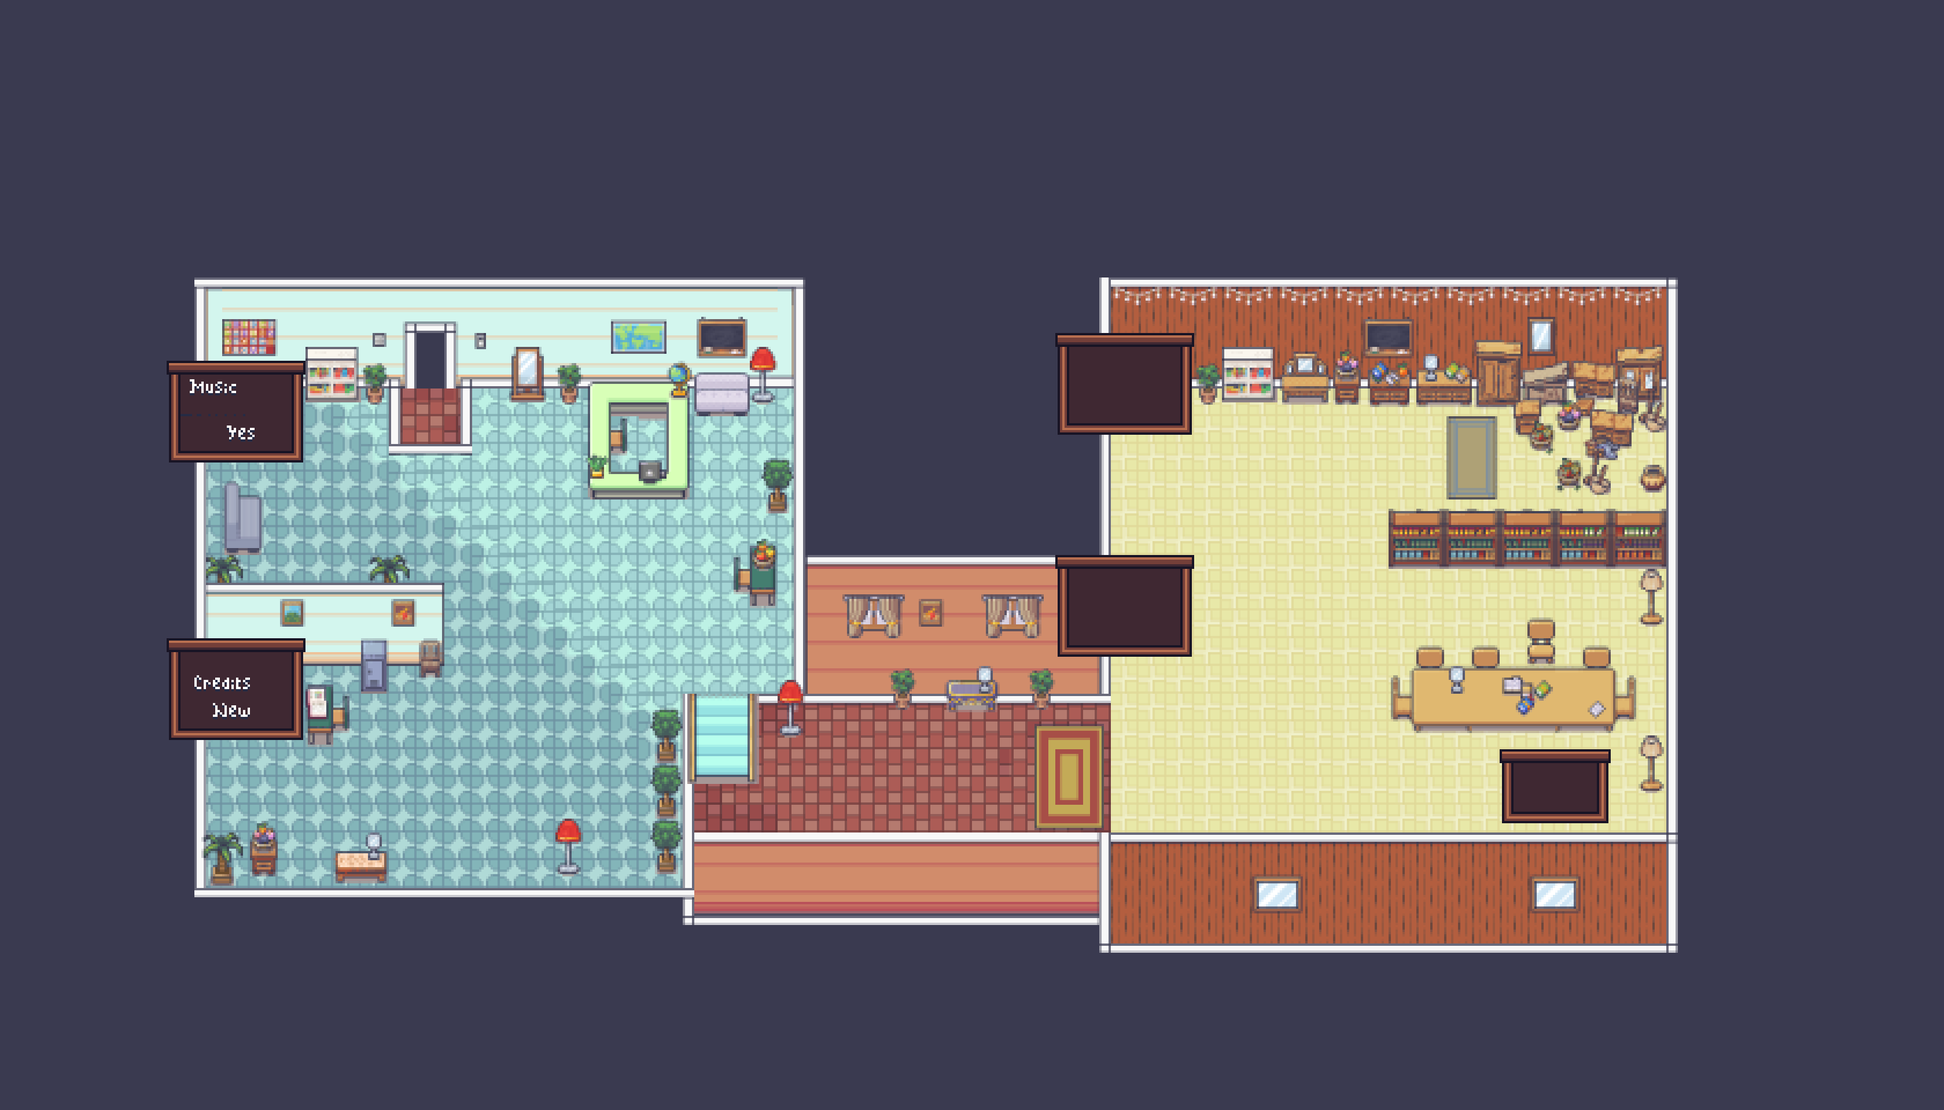
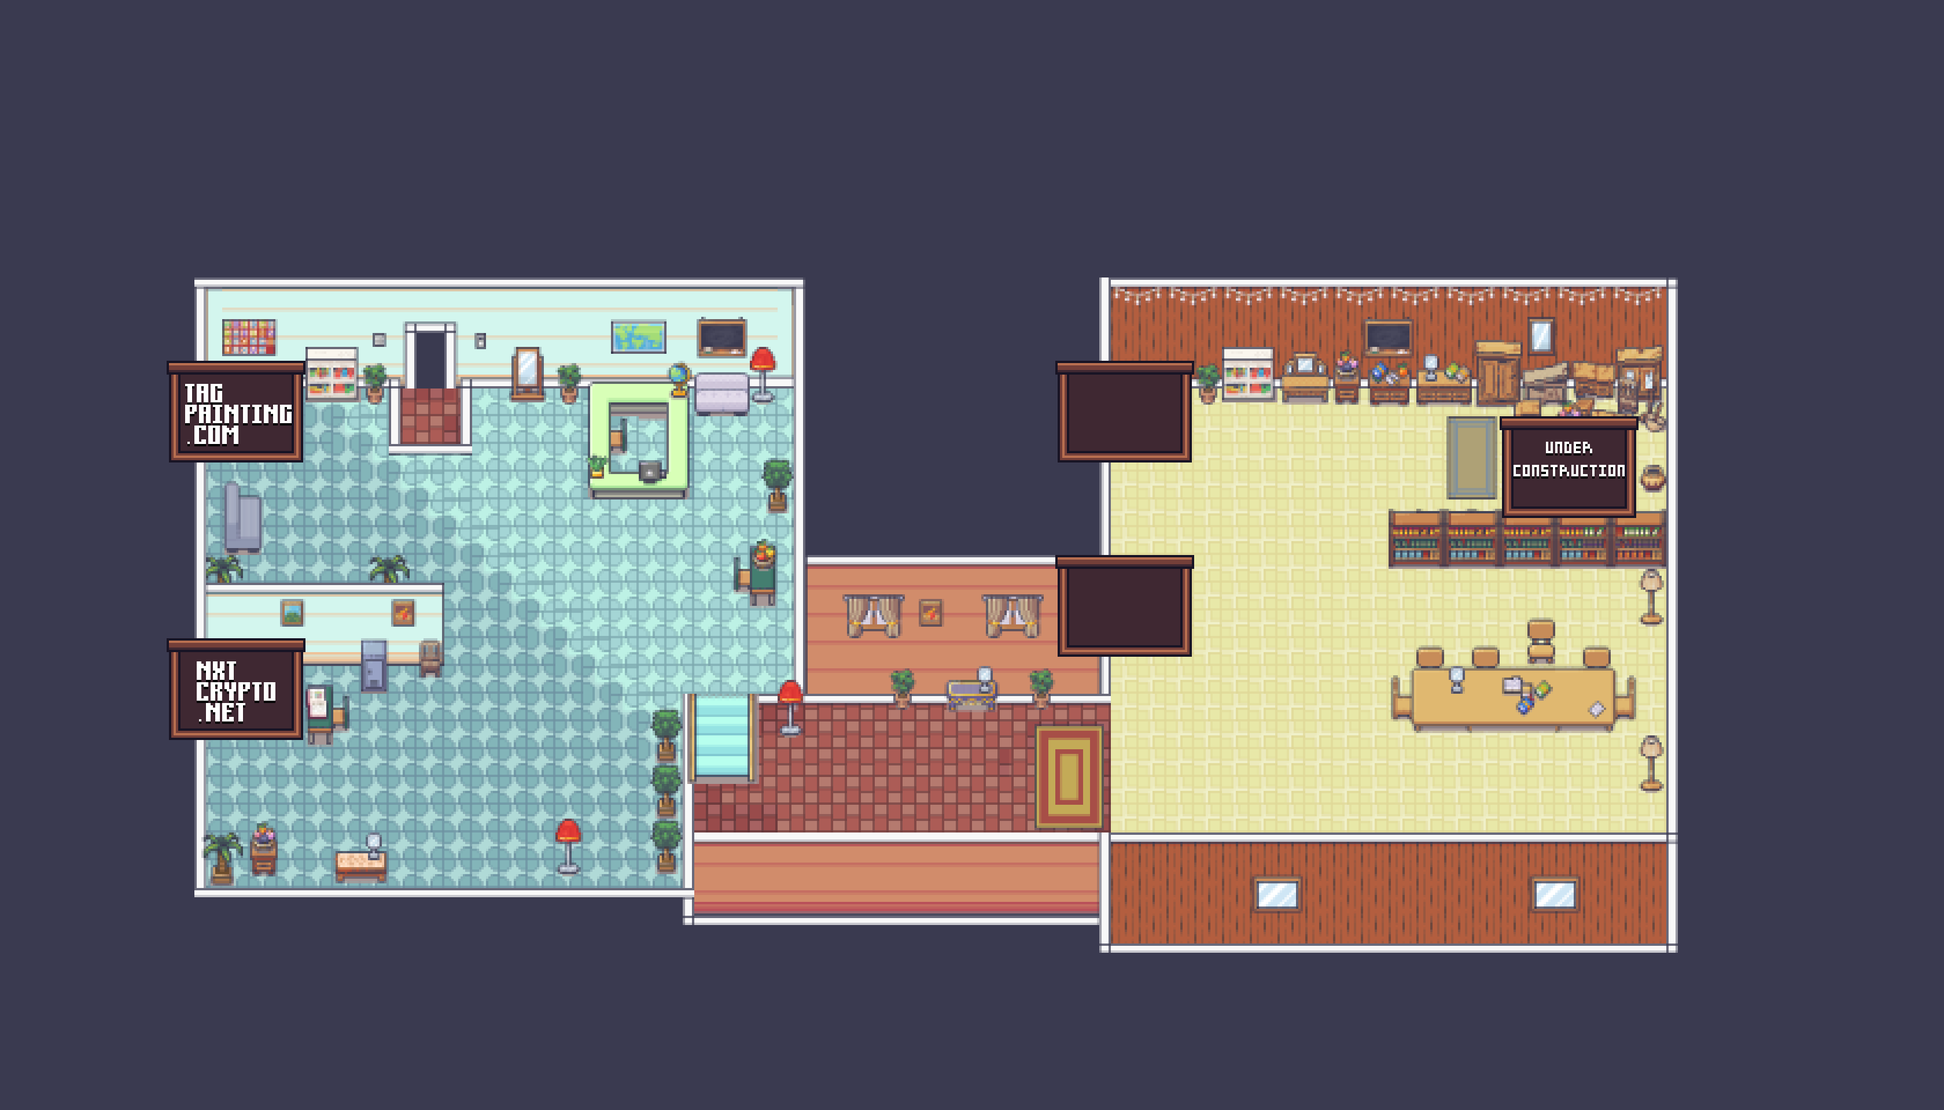
portfolio websites

diff --git a/js/data/enterWeb.js b/js/data/enterWeb.js
@@ -1,0 +1,113 @@
+// 393
+
+enterWebData = [
+  0, 0, 0, 0, 0, 0, 0, 0, 0, 0, 0, 0, 0, 0, 0, 0, 0, 0, 0, 0, 0, 0, 0, 0, 0, 0,
+  0, 0, 0, 0, 0, 0, 0, 0, 0, 0, 0, 0, 0, 0, 0, 0, 0, 0, 0, 0, 0, 0, 0, 0, 0, 0,
+  0, 0, 0, 0, 0, 0, 0, 0, 0, 0, 0, 0, 0, 0, 0, 0, 0, 0, 0, 0, 0, 0, 0, 0, 0, 0,
+  0, 0, 0, 0, 0, 0, 0, 0, 0, 0, 0, 0, 0, 0, 0, 0, 0, 0, 0, 0, 0, 0, 0, 0, 0, 0,
+  0, 0, 0, 0, 0, 0, 0, 0, 0, 0, 0, 0, 0, 0, 0, 0, 0, 0, 0, 0, 0, 0, 0, 0, 0, 0,
+  0, 0, 0, 0, 0, 0, 0, 0, 0, 0, 0, 0, 0, 0, 0, 0, 0, 0, 0, 0, 0, 0, 0, 0, 0, 0,
+  0, 0, 0, 0, 0, 0, 0, 0, 0, 0, 0, 0, 0, 0, 0, 0, 0, 0, 0, 0, 0, 0, 0, 0, 0, 0,
+  0, 0, 0, 0, 0, 0, 0, 0, 0, 0, 0, 0, 0, 0, 0, 0, 0, 0, 0, 0, 0, 0, 0, 0, 0, 0,
+  0, 0, 0, 0, 0, 0, 0, 0, 0, 0, 0, 0, 0, 0, 0, 0, 0, 0, 0, 0, 0, 0, 0, 0, 0, 0,
+  0, 0, 0, 0, 0, 0, 0, 0, 0, 0, 0, 0, 0, 0, 0, 0, 0, 0, 0, 0, 0, 0, 0, 0, 0, 0,
+  0, 0, 0, 0, 0, 0, 0, 0, 0, 0, 0, 0, 0, 0, 0, 0, 0, 0, 0, 0, 0, 0, 0, 0, 0, 0,
+  0, 0, 0, 0, 0, 0, 0, 0, 0, 0, 0, 0, 0, 0, 0, 0, 0, 0, 0, 0, 0, 0, 0, 0, 0, 0,
+  0, 0, 0, 0, 0, 0, 0, 0, 0, 0, 0, 0, 0, 0, 0, 0, 0, 0, 0, 0, 0, 0, 0, 0, 0, 0,
+  0, 0, 0, 0, 0, 0, 0, 0, 0, 0, 0, 0, 0, 0, 0, 0, 0, 0, 0, 0, 0, 0, 0, 0, 0, 0,
+  0, 0, 0, 0, 0, 0, 0, 0, 0, 0, 0, 0, 0, 0, 0, 0, 0, 0, 0, 0, 0, 0, 0, 0, 0, 0,
+  0, 0, 0, 0, 0, 0, 0, 0, 0, 0, 0, 0, 0, 0, 0, 0, 0, 0, 0, 0, 0, 0, 0, 0, 0, 0,
+  0, 0, 0, 0, 0, 0, 0, 0, 0, 0, 0, 0, 0, 0, 0, 0, 0, 0, 0, 0, 0, 0, 0, 0, 0, 0,
+  0, 0, 0, 0, 0, 0, 0, 0, 0, 0, 0, 0, 0, 0, 0, 0, 0, 0, 0, 0, 0, 0, 0, 0, 0, 0,
+  0, 0, 0, 0, 0, 0, 0, 0, 0, 0, 0, 0, 0, 0, 0, 0, 0, 0, 0, 0, 0, 0, 0, 0, 0, 0,
+  0, 0, 0, 0, 0, 0, 0, 0, 0, 0, 0, 0, 0, 0, 0, 0, 0, 0, 0, 0, 0, 0, 0, 0, 0, 0,
+  0, 0, 0, 0, 0, 0, 0, 0, 0, 0, 0, 0, 0, 0, 0, 0, 0, 0, 0, 0, 0, 0, 0, 0, 0, 0,
+  0, 0, 0, 0, 0, 0, 0, 0, 0, 0, 0, 0, 0, 0, 0, 0, 0, 0, 0, 0, 0, 0, 0, 0, 0, 0,
+  0, 0, 0, 0, 0, 0, 0, 0, 0, 0, 0, 0, 0, 0, 0, 0, 0, 0, 0, 0, 0, 0, 0, 0, 0, 0,
+  0, 0, 0, 0, 0, 0, 0, 0, 0, 0, 0, 0, 0, 0, 0, 0, 0, 0, 0, 0, 0, 0, 0, 0, 0, 0,
+  0, 0, 0, 0, 0, 0, 0, 0, 0, 0, 0, 0, 0, 0, 0, 0, 0, 0, 0, 0, 0, 0, 0, 0, 0, 0,
+  0, 0, 0, 0, 0, 0, 0, 0, 0, 0, 0, 0, 0, 0, 0, 0, 0, 0, 0, 0, 0, 0, 0, 0, 0, 0,
+  0, 0, 0, 0, 0, 0, 0, 0, 0, 0, 0, 0, 0, 0, 0, 0, 0, 0, 0, 0, 0, 0, 0, 0, 0, 0,
+  0, 0, 0, 0, 0, 0, 0, 0, 0, 0, 0, 0, 0, 0, 0, 0, 0, 0, 0, 0, 0, 0, 0, 0, 0, 0,
+  0, 0, 0, 0, 0, 0, 0, 0, 0, 0, 0, 0, 0, 0, 0, 0, 0, 0, 0, 0, 0, 0, 0, 0, 0, 0,
+  0, 0, 0, 0, 0, 0, 0, 0, 0, 0, 0, 0, 0, 0, 0, 0, 0, 0, 0, 0, 0, 0, 0, 0, 0, 0,
+  0, 0, 0, 0, 0, 0, 0, 0, 0, 0, 0, 0, 0, 0, 0, 0, 0, 0, 0, 0, 0, 0, 0, 0, 0, 0,
+  0, 0, 0, 0, 0, 0, 0, 0, 0, 0, 0, 0, 0, 0, 0, 0, 0, 0, 0, 0, 0, 0, 0, 0, 0, 0,
+  0, 0, 0, 0, 0, 0, 0, 0, 0, 0, 0, 0, 0, 0, 0, 0, 0, 0, 0, 0, 0, 0, 0, 0, 0, 0,
+  0, 0, 0, 0, 0, 0, 0, 0, 0, 0, 0, 0, 0, 0, 0, 0, 0, 0, 0, 0, 0, 0, 0, 0, 0, 0,
+  0, 0, 0, 0, 0, 0, 0, 0, 0, 0, 0, 0, 0, 0, 0, 0, 0, 0, 0, 0, 0, 0, 0, 0, 0, 0,
+  0, 0, 0, 0, 0, 0, 0, 0, 0, 0, 0, 0, 0, 0, 0, 0, 0, 0, 0, 0, 0, 0, 0, 0, 0, 0,
+  0, 0, 0, 0, 0, 0, 0, 0, 0, 0, 0, 0, 0, 0, 0, 0, 0, 0, 0, 0, 0, 0, 0, 0, 0, 0,
+  0, 0, 0, 0, 0, 0, 0, 0, 0, 0, 0, 0, 0, 0, 0, 0, 0, 0, 0, 0, 0, 0, 0, 0, 0, 0,
+  0, 0, 0, 0, 0, 0, 0, 0, 0, 0, 0, 0, 0, 0, 0, 0, 0, 0, 0, 0, 0, 0, 0, 0, 0, 0,
+  0, 0, 0, 0, 0, 0, 0, 0, 0, 0, 0, 0, 0, 0, 0, 0, 0, 0, 0, 0, 0, 0, 0, 0, 0, 0,
+  0, 0, 0, 0, 0, 0, 0, 0, 0, 0, 0, 0, 0, 0, 0, 0, 0, 0, 0, 0, 0, 0, 0, 0, 0, 0,
+  0, 0, 0, 0, 0, 0, 0, 0, 0, 0, 0, 0, 0, 0, 0, 0, 0, 0, 0, 0, 0, 0, 0, 0, 393,
+  393, 0, 0, 0, 0, 0, 0, 0, 0, 0, 0, 0, 0, 0, 0, 0, 0, 0, 0, 0, 0, 0, 0, 0, 0,
+  0, 0, 0, 0, 0, 0, 0, 0, 0, 0, 0, 393, 393, 0, 0, 0, 0, 0, 0, 0, 0, 0, 0, 0, 0,
+  0, 0, 0, 0, 0, 0, 0, 0, 0, 0, 0, 0, 0, 0, 0, 0, 0, 0, 0, 393, 393, 0, 0, 0, 0,
+  0, 0, 0, 0, 0, 0, 0, 0, 0, 0, 0, 0, 0, 0, 0, 0, 0, 0, 0, 0, 0, 0, 0, 0, 0, 0,
+  0, 0, 0, 0, 0, 393, 393, 0, 0, 0, 0, 0, 0, 0, 0, 0, 0, 0, 0, 0, 0, 0, 0, 0, 0,
+  0, 0, 0, 0, 0, 0, 0, 0, 0, 0, 0, 0, 0, 0, 0, 0, 0, 0, 0, 0, 0, 0, 0, 0, 0, 0,
+  0, 0, 0, 0, 0, 0, 0, 0, 0, 0, 0, 0, 0, 0, 0, 0, 0, 0, 0, 0, 0, 0, 0, 0, 0, 0,
+  0, 0, 0, 0, 0, 0, 0, 0, 0, 0, 0, 0, 0, 0, 0, 0, 0, 0, 0, 0, 0, 0, 0, 0, 0, 0,
+  0, 0, 0, 0, 0, 0, 0, 0, 0, 0, 0, 0, 0, 0, 0, 0, 0, 0, 0, 0, 0, 0, 0, 0, 0, 0,
+  0, 0, 0, 0, 0, 0, 0, 0, 0, 0, 0, 0, 0, 0, 0, 0, 0, 0, 0, 0, 0, 0, 0, 0, 0, 0,
+  0, 0, 0, 0, 0, 0, 0, 0, 0, 0, 0, 0, 0, 0, 0, 0, 0, 0, 0, 0, 0, 0, 0, 0, 0, 0,
+  0, 0, 0, 0, 0, 0, 0, 0, 0, 0, 0, 0, 0, 0, 0, 0, 0, 0, 0, 0, 0, 0, 0, 0, 0, 0,
+  0, 0, 0, 0, 0, 0, 0, 0, 0, 0, 0, 0, 0, 0, 0, 0, 0, 0, 0, 0, 0, 0, 0, 0, 0, 0,
+  0, 0, 0, 0, 0, 0, 0, 0, 0, 0, 0, 0, 0, 0, 0, 0, 0, 0, 0, 0, 0, 0, 0, 0, 0, 0,
+  0, 0, 0, 0, 0, 0, 0, 0, 0, 0, 0, 0, 0, 0, 0, 0, 0, 0, 0, 0, 0, 0, 0, 0, 0, 0,
+  0, 0, 0, 0, 0, 0, 0, 0, 0, 0, 0, 0, 0, 0, 0, 0, 0, 0, 0, 0, 0, 0, 0, 0, 0, 0,
+  0, 0, 0, 0, 0, 0, 0, 0, 0, 0, 0, 0, 0, 0, 0, 0, 0, 0, 0, 0, 0, 0, 0, 0, 0, 0,
+  0, 0, 0, 0, 0, 0, 0, 0, 0, 0, 0, 0, 0, 0, 0, 0, 0, 0, 0, 0, 0, 0, 0, 0, 0, 0,
+  0, 0, 0, 0, 0, 0, 0, 0, 0, 0, 0, 0, 0, 0, 0, 0, 0, 0, 0, 0, 0, 0, 0, 0, 0, 0,
+  0, 0, 0, 0, 0, 0, 0, 0, 0, 0, 0, 0, 0, 0, 0, 0, 0, 0, 0, 0, 0, 0, 0, 0, 0, 0,
+  0, 0, 0, 0, 0, 0, 0, 0, 0, 0, 0, 0, 0, 0, 0, 0, 0, 0, 0, 0, 0, 0, 0, 0, 0, 0,
+  0, 0, 0, 0, 0, 0, 0, 0, 0, 0, 0, 0, 0, 0, 0, 0, 0, 393, 393, 0, 0, 0, 0, 0, 0,
+  0, 0, 0, 0, 0, 0, 0, 0, 0, 0, 0, 0, 0, 0, 0, 0, 0, 0, 0, 0, 0, 0, 0, 0, 0, 0,
+  0, 0, 0, 0, 0, 0, 0, 0, 0, 0, 0, 0, 0, 0, 0, 0, 0, 0, 0, 0, 0, 0, 0, 0, 0, 0,
+  0, 0, 0, 0, 0, 0, 0, 0, 0, 0, 393, 393, 0, 0, 0, 0, 0, 0, 0, 0, 0, 0, 0, 0, 0,
+  0, 0, 0, 0, 0, 0, 0, 0, 0, 0, 0, 0, 0, 0, 0, 0, 0, 0, 0, 0, 0, 0, 0, 0, 0, 0,
+  0, 0, 0, 0, 0, 0, 0, 0, 0, 0, 0, 0, 0, 0, 0, 0, 0, 0, 0, 0, 0, 0, 0, 0, 0, 0,
+  0, 0, 0, 0, 0, 0, 0, 0, 0, 0, 0, 0, 0, 0, 0, 0, 0, 0, 0, 0, 0, 0, 0, 0, 0, 0,
+  0, 0, 0, 0, 0, 0, 0, 0, 0, 0, 0, 0, 0, 0, 393, 393, 0, 0, 0, 0, 0, 0, 0, 0, 0,
+  0, 0, 0, 0, 0, 0, 0, 0, 0, 0, 0, 0, 0, 0, 0, 0, 0, 0, 0, 0, 0, 0, 0, 0, 0, 0,
+  0, 0, 0, 0, 0, 0, 0, 0, 0, 0, 0, 0, 0, 0, 0, 0, 0, 0, 0, 0, 0, 0, 0, 0, 0, 0,
+  0, 0, 0, 0, 0, 0, 0, 393, 393, 0, 0, 0, 0, 0, 0, 0, 0, 0, 0, 0, 0, 0, 0, 0, 0,
+  0, 0, 0, 0, 0, 0, 0, 0, 0, 0, 0, 0, 0, 0, 0, 0, 0, 0, 0, 0, 0, 0, 0, 0, 0, 0,
+  0, 0, 0, 0, 0, 0, 0, 0, 0, 0, 0, 0, 0, 0, 0, 0, 0, 0, 0, 0, 0, 0, 0, 0, 0, 0,
+  0, 0, 0, 0, 0, 0, 0, 0, 0, 0, 0, 0, 0, 0, 0, 0, 0, 0, 0, 0, 0, 0, 0, 0, 0, 0,
+  0, 0, 0, 0, 0, 0, 0, 0, 0, 0, 0, 0, 0, 0, 0, 0, 0, 0, 0, 0, 0, 0, 0, 0, 0, 0,
+  0, 0, 0, 0, 0, 0, 0, 0, 0, 0, 0, 0, 0, 0, 0, 0, 0, 0, 0, 0, 0, 0, 0, 0, 0, 0,
+  0, 0, 0, 0, 0, 0, 0, 0, 0, 0, 0, 0, 0, 0, 0, 0, 0, 0, 0, 0, 0, 0, 0, 0, 0, 0,
+  0, 0, 0, 0, 0, 0, 0, 0, 0, 0, 0, 0, 0, 0, 0, 0, 0, 0, 0, 0, 0, 0, 0, 0, 0, 0,
+  0, 0, 0, 0, 0, 0, 0, 0, 0, 0, 0, 0, 0, 0, 0, 0, 0, 0, 0, 0, 0, 0, 0, 0, 0, 0,
+  0, 0, 0, 0, 0, 0, 0, 0, 0, 0, 0, 0, 0, 0, 0, 0, 0, 0, 0, 0, 0, 0, 0, 0, 0, 0,
+  0, 0, 0, 0, 0, 0, 0, 0, 0, 0, 0, 0, 0, 0, 0, 0, 0, 0, 0, 0, 0, 0, 0, 0, 0, 0,
+  0, 0, 0, 0, 0, 0, 0, 0, 0, 0, 0, 0, 0, 0, 0, 0, 0, 0, 0, 0, 0, 0, 0, 0, 0, 0,
+  0, 0, 0, 0, 0, 0, 0, 0, 0, 0, 0, 0, 0, 0, 0, 0, 0, 0, 0, 0, 0, 0, 0, 0, 0, 0,
+  0, 0, 0, 0, 0, 0, 0, 0, 0, 0, 0, 0, 0, 0, 0, 0, 0, 0, 0, 0, 0, 0, 0, 0, 0, 0,
+  0, 0, 0, 0, 0, 0, 0, 0, 0, 0, 0, 0, 0, 0, 0, 0, 0, 0, 0, 0, 0, 0, 0, 0, 0, 0,
+  0, 0, 0, 0, 0, 0, 0, 0, 0, 0, 0, 0, 0, 0, 0, 0, 0, 0, 0, 0, 0, 0, 0, 0, 0, 0,
+  0, 0, 0, 0, 0, 0, 0, 0, 0, 0, 0, 0, 0, 0, 0, 0, 0, 0, 0, 0, 0, 0, 0, 0, 0, 0,
+  0, 0, 0, 0, 0, 0, 0, 0, 0, 0, 0, 0, 0, 0, 0, 0, 0, 0, 0, 0, 0, 0, 0, 0, 0, 0,
+  0, 0, 0, 0, 0, 0, 0, 0, 0, 0, 0, 0, 0, 0, 0, 0, 0, 0, 0, 0, 0, 0, 0, 0, 0, 0,
+  0, 0, 0, 0, 0, 0, 0, 0, 0, 0, 0, 0, 0, 0, 0, 0, 0, 0, 0, 0, 0, 0, 0, 0, 0, 0,
+  0, 0, 0, 0, 0, 0, 0, 0, 0, 0, 0, 0, 0, 0, 0, 0, 0, 0, 0, 0, 0, 0, 0, 0, 0, 0,
+  0, 0, 0, 0, 0, 0, 0, 0, 0, 0, 0, 0, 0, 0, 0, 0, 0, 0, 0, 0, 0, 0, 0, 0, 0, 0,
+  0, 0, 0, 0, 0, 0, 0, 0, 0, 0, 0, 0, 0, 0, 0, 0, 0, 0, 0, 0, 0, 0, 0, 0, 0, 0,
+  0, 0, 0, 0, 0, 0, 0, 0, 0, 0, 0, 0, 0, 0, 0, 0, 0, 0, 0, 0, 0, 0, 0, 0, 0, 0,
+  0, 0, 0, 0, 0, 0, 0, 0, 0, 0, 0, 0, 0, 0, 0, 0, 0, 0, 0, 0, 0, 0, 0, 0, 0, 0,
+  0, 0, 0, 0, 0, 0, 0, 0, 0, 0, 0, 0, 0, 0, 0, 0, 0, 0, 0, 0, 0, 0, 0, 0, 0, 0,
+  0, 0, 0, 0, 0, 0, 0, 0, 0, 0, 0, 0, 0, 0, 0, 0, 0, 0, 0, 0, 0, 0, 0, 0, 0, 0,
+  0, 0, 0, 0, 0, 0, 0, 0, 0, 0, 0, 0, 0, 0, 0, 0, 0, 0, 0, 0, 0, 0, 0, 0, 0, 0,
+  0, 0, 0, 0, 0, 0, 0, 0, 0, 0, 0, 0, 0, 0, 0, 0, 0, 0, 0, 0, 0, 0, 0, 0, 0, 0,
+  0, 0, 0, 0, 0, 0, 0, 0, 0, 0, 0, 0, 0, 0, 0, 0, 0, 0, 0, 0, 0, 0, 0, 0, 0, 0,
+  0, 0, 0, 0, 0, 0, 0, 0, 0, 0, 0, 0, 0, 0, 0, 0, 0, 0, 0, 0, 0, 0, 0, 0, 0, 0,
+  0, 0, 0, 0, 0, 0, 0, 0, 0, 0, 0, 0, 0, 0, 0, 0, 0, 0, 0, 0, 0, 0, 0, 0, 0, 0,
+  0, 0, 0, 0, 0, 0, 0, 0, 0, 0, 0, 0, 0, 0, 0, 0, 0, 0, 0, 0, 0, 0, 0, 0, 0, 0,
+  0, 0, 0, 0, 0, 0, 0, 0, 0, 0, 0, 0, 0, 0, 0, 0, 0, 0, 0, 0, 0, 0, 0, 0, 0, 0,
+  0, 0, 0, 0, 0, 0, 0, 0, 0, 0, 0, 0, 0, 0, 0, 0, 0, 0, 0, 0, 0, 0, 0, 0, 0, 0,
+  0,
+];

diff --git a/js/data/portCollision.js b/js/data/portCollision.js
@@ -33,16 +33,16 @@ const portCollision = [
   0, 0, 0, 0, 0, 0, 0, 0, 0, 0, 0, 0, 0, 0, 0, 0, 0, 0, 0, 0, 0, 0, 0, 0, 0, 0,
   0, 0, 0, 0, 392, 392, 392, 0, 0, 0, 0, 0, 0, 0, 0, 0, 0, 0, 0, 0, 0, 0, 0, 0,
   0, 0, 0, 0, 0, 0, 0, 0, 0, 0, 0, 0, 0, 0, 0, 0, 0, 0, 0, 0, 0, 0, 0, 0, 0, 0,
-  0, 0, 0, 0, 0, 0, 0, 0, 0, 0, 0, 0, 0, 0, 0, 0, 0, 0, 0, 0, 0, 392, 392, 392,
-  0, 0, 0, 392, 392, 392, 392, 0, 0, 0, 0, 392, 392, 392, 392, 0, 0, 0, 0, 0, 0,
+  0, 0, 0, 0, 0, 0, 0, 0, 0, 0, 0, 0, 0, 0, 0, 0, 0, 0, 0, 0, 0, 0, 0, 392, 0,
+  0, 0, 0, 0, 0, 0, 0, 0, 0, 0, 392, 392, 392, 392, 0, 0, 0, 0, 0, 0, 0, 0, 0,
   0, 0, 0, 0, 0, 0, 0, 0, 0, 0, 0, 0, 0, 0, 0, 0, 0, 0, 0, 0, 0, 0, 0, 0, 0, 0,
-  0, 0, 0, 0, 0, 0, 0, 0, 0, 0, 0, 0, 0, 0, 0, 0, 0, 0, 0, 392, 0, 0, 0, 0, 0,
-  0, 0, 0, 0, 0, 392, 0, 0, 392, 0, 0, 0, 0, 392, 0, 0, 0, 0, 0, 0, 0, 0, 0, 0,
-  392, 392, 392, 392, 392, 392, 392, 392, 392, 392, 392, 392, 392, 392, 392,
+  0, 0, 0, 0, 0, 0, 0, 0, 0, 0, 0, 0, 0, 0, 0, 0, 392, 392, 392, 392, 0, 0, 0,
+  392, 392, 392, 392, 0, 0, 0, 392, 0, 0, 0, 0, 392, 0, 0, 0, 0, 0, 0, 0, 0, 0,
+  0, 392, 392, 392, 392, 392, 392, 392, 392, 392, 392, 392, 392, 392, 392, 392,
   392, 392, 392, 392, 392, 0, 0, 0, 0, 0, 0, 0, 0, 0, 0, 0, 0, 0, 0, 0, 0, 0, 0,
   0, 0, 392, 0, 0, 0, 0, 0, 0, 0, 0, 0, 0, 392, 0, 0, 392, 0, 0, 0, 0, 392, 0,
   0, 0, 0, 0, 0, 0, 0, 0, 392, 0, 0, 0, 0, 0, 0, 0, 0, 0, 0, 0, 0, 0, 0, 0, 0,
-  0, 0, 0, 0, 392, 0, 0, 0, 0, 0, 0, 0, 0, 0, 0, 0, 0, 0, 0, 0, 0, 392, 392,
+  0, 0, 0, 0, 392, 0, 0, 0, 0, 0, 0, 0, 0, 0, 0, 0, 0, 0, 0, 0, 392, 392, 392,
   392, 0, 0, 0, 0, 0, 0, 0, 0, 0, 0, 0, 392, 0, 0, 392, 0, 0, 0, 0, 392, 0, 0,
   0, 0, 0, 0, 0, 0, 0, 392, 0, 0, 0, 0, 0, 0, 0, 0, 0, 0, 0, 0, 0, 0, 0, 0, 0,
   0, 0, 0, 392, 0, 0, 0, 0, 0, 0, 0, 0, 0, 0, 0, 0, 0, 0, 0, 392, 0, 0, 0, 0, 0,
@@ -62,41 +62,41 @@ const portCollision = [
   0, 0, 0, 0, 0, 0, 0, 0, 0, 0, 0, 392, 0, 0, 0, 0, 0, 0, 0, 0, 0, 0, 0, 0, 0,
   0, 0, 392, 0, 0, 0, 0, 0, 0, 0, 0, 0, 0, 0, 0, 0, 0, 0, 0, 0, 0, 0, 0, 0, 0,
   392, 0, 0, 0, 0, 0, 0, 0, 0, 0, 392, 0, 0, 0, 0, 0, 0, 0, 0, 0, 0, 0, 0, 0, 0,
-  0, 0, 0, 0, 0, 0, 392, 0, 0, 0, 0, 0, 0, 0, 0, 0, 0, 0, 0, 0, 0, 0, 392, 392,
-  392, 392, 392, 392, 392, 392, 392, 392, 0, 0, 0, 0, 0, 0, 0, 0, 0, 0, 0, 0, 0,
-  392, 0, 0, 0, 0, 0, 0, 0, 0, 0, 392, 0, 0, 0, 0, 0, 0, 0, 0, 0, 0, 0, 0, 0, 0,
-  0, 0, 0, 0, 0, 0, 392, 0, 0, 0, 0, 0, 0, 0, 0, 0, 0, 0, 0, 0, 0, 0, 0, 0, 0,
-  0, 0, 392, 0, 0, 0, 0, 0, 0, 0, 0, 0, 0, 0, 0, 0, 0, 0, 0, 0, 392, 392, 392,
-  392, 392, 392, 392, 392, 392, 392, 392, 0, 0, 0, 0, 0, 0, 0, 0, 0, 0, 0, 0, 0,
-  0, 0, 0, 0, 0, 0, 0, 392, 0, 0, 0, 0, 0, 0, 0, 0, 0, 0, 0, 0, 0, 0, 0, 0, 0,
-  0, 0, 0, 392, 0, 0, 0, 0, 0, 0, 0, 0, 0, 0, 0, 0, 0, 0, 0, 0, 392, 0, 0, 0, 0,
-  0, 0, 0, 0, 0, 0, 0, 0, 0, 0, 0, 0, 0, 0, 0, 0, 0, 0, 392, 392, 392, 392, 392,
-  392, 392, 0, 0, 392, 0, 0, 0, 0, 0, 0, 0, 0, 0, 0, 0, 0, 0, 0, 0, 0, 392, 392,
-  392, 392, 392, 0, 0, 0, 0, 0, 0, 0, 0, 0, 0, 0, 0, 392, 0, 0, 392, 0, 0, 0, 0,
-  0, 0, 0, 0, 0, 0, 0, 0, 0, 0, 0, 0, 0, 0, 0, 0, 0, 0, 0, 392, 392, 392, 392,
-  392, 392, 392, 0, 0, 392, 0, 0, 0, 0, 0, 0, 0, 0, 0, 0, 0, 0, 0, 0, 0, 392, 0,
-  0, 0, 0, 0, 0, 0, 0, 0, 0, 0, 0, 0, 0, 0, 0, 0, 392, 0, 0, 392, 0, 0, 0, 0, 0,
-  0, 0, 0, 0, 0, 0, 0, 0, 0, 0, 0, 0, 0, 0, 0, 0, 0, 0, 0, 0, 0, 0, 0, 0, 0, 0,
-  0, 392, 0, 0, 0, 0, 0, 0, 0, 0, 0, 0, 0, 0, 0, 0, 0, 392, 0, 0, 0, 0, 0, 0, 0,
-  0, 0, 0, 0, 0, 0, 0, 0, 0, 0, 392, 0, 0, 0, 0, 0, 0, 0, 0, 0, 0, 0, 0, 0, 0,
-  0, 0, 0, 0, 0, 0, 0, 0, 0, 0, 0, 0, 0, 0, 0, 0, 0, 0, 0, 0, 0, 392, 0, 0, 0,
-  0, 0, 0, 0, 0, 0, 0, 0, 0, 0, 0, 0, 392, 0, 0, 0, 0, 0, 0, 0, 0, 0, 0, 0, 0,
+  0, 0, 0, 0, 0, 0, 392, 0, 0, 0, 0, 0, 0, 0, 0, 0, 0, 0, 0, 0, 0, 0, 392, 0, 0,
+  0, 0, 0, 0, 0, 0, 0, 0, 0, 0, 0, 0, 0, 0, 0, 0, 0, 0, 0, 0, 392, 0, 0, 0, 0,
   0, 0, 0, 0, 0, 392, 0, 0, 0, 0, 0, 0, 0, 0, 0, 0, 0, 0, 0, 0, 0, 0, 0, 0, 0,
-  0, 0, 0, 0, 0, 0, 0, 0, 0, 0, 0, 0, 0, 0, 0, 0, 392, 0, 0, 0, 0, 0, 0, 0, 0,
-  0, 0, 0, 0, 0, 0, 0, 392, 0, 0, 0, 0, 0, 0, 0, 0, 0, 0, 0, 0, 0, 0, 0, 0, 0,
-  392, 0, 0, 0, 0, 0, 0, 0, 0, 0, 0, 0, 0, 0, 0, 0, 0, 0, 0, 0, 0, 0, 0, 0, 0,
-  0, 0, 0, 0, 0, 0, 0, 0, 0, 0, 0, 392, 0, 0, 0, 0, 0, 0, 0, 0, 0, 0, 0, 0, 0,
-  0, 0, 392, 0, 0, 0, 0, 0, 0, 0, 0, 0, 0, 0, 0, 0, 0, 0, 0, 0, 392, 0, 0, 0, 0,
+  0, 392, 0, 0, 0, 0, 0, 0, 0, 0, 0, 0, 0, 0, 0, 0, 0, 0, 392, 392, 392, 392,
+  392, 392, 392, 392, 0, 0, 0, 0, 0, 0, 0, 0, 0, 0, 0, 0, 0, 0, 392, 0, 0, 0, 0,
+  0, 0, 0, 0, 0, 392, 0, 0, 0, 0, 0, 0, 0, 0, 0, 0, 0, 0, 0, 0, 0, 0, 0, 0, 0,
+  0, 392, 0, 0, 0, 0, 0, 0, 0, 0, 0, 0, 0, 0, 0, 0, 0, 0, 0, 0, 0, 0, 392, 0, 0,
+  0, 0, 0, 0, 0, 0, 0, 0, 0, 0, 0, 0, 0, 0, 392, 392, 392, 392, 392, 392, 392,
+  392, 392, 392, 392, 392, 0, 0, 0, 0, 0, 0, 0, 0, 0, 0, 0, 392, 392, 392, 392,
+  392, 392, 392, 0, 0, 392, 0, 0, 0, 0, 0, 0, 0, 0, 0, 0, 0, 0, 0, 0, 0, 0, 392,
+  392, 392, 392, 392, 0, 0, 0, 0, 0, 0, 0, 0, 0, 0, 0, 0, 0, 0, 0, 0, 392, 0, 0,
+  0, 0, 0, 0, 0, 0, 0, 0, 0, 0, 0, 0, 0, 0, 0, 0, 0, 0, 0, 0, 392, 392, 392,
+  392, 392, 392, 392, 0, 0, 392, 0, 0, 0, 0, 0, 0, 0, 0, 0, 0, 0, 0, 0, 0, 0,
+  392, 0, 0, 0, 0, 0, 0, 0, 0, 0, 0, 0, 0, 0, 0, 0, 0, 0, 392, 0, 0, 0, 392, 0,
   0, 0, 0, 0, 0, 0, 0, 0, 0, 0, 0, 0, 0, 0, 0, 0, 0, 0, 0, 0, 0, 0, 0, 0, 0, 0,
-  0, 0, 0, 0, 0, 392, 0, 0, 0, 0, 0, 0, 0, 0, 0, 0, 0, 0, 0, 0, 0, 392, 0, 0, 0,
+  0, 0, 0, 0, 392, 0, 0, 0, 0, 0, 0, 0, 0, 0, 0, 0, 0, 0, 0, 0, 392, 0, 0, 0, 0,
+  0, 0, 0, 0, 0, 0, 0, 0, 0, 0, 0, 0, 0, 392, 0, 0, 0, 0, 0, 0, 0, 0, 0, 0, 0,
+  0, 0, 0, 0, 0, 0, 0, 0, 0, 0, 0, 0, 0, 0, 0, 0, 0, 0, 0, 0, 0, 0, 0, 0, 392,
+  0, 0, 0, 0, 0, 0, 0, 0, 0, 0, 0, 0, 0, 0, 0, 392, 0, 0, 0, 0, 0, 0, 0, 0, 0,
+  0, 0, 0, 0, 0, 0, 0, 0, 392, 0, 0, 0, 0, 0, 0, 0, 0, 0, 0, 0, 0, 0, 0, 0, 0,
+  0, 0, 0, 0, 0, 0, 0, 0, 0, 0, 0, 0, 0, 0, 0, 0, 0, 0, 0, 392, 0, 0, 0, 0, 0,
+  0, 0, 0, 0, 0, 0, 0, 0, 0, 0, 392, 0, 0, 0, 0, 0, 0, 0, 0, 0, 0, 0, 0, 0, 0,
+  0, 0, 0, 392, 0, 0, 0, 0, 0, 0, 0, 0, 0, 0, 0, 0, 0, 0, 0, 0, 0, 0, 0, 0, 0,
   0, 0, 0, 0, 0, 0, 0, 0, 0, 0, 0, 0, 0, 0, 392, 0, 0, 0, 0, 0, 0, 0, 0, 0, 0,
-  0, 0, 0, 0, 0, 0, 0, 0, 0, 0, 0, 0, 0, 0, 0, 0, 0, 0, 0, 0, 0, 0, 0, 0, 0,
-  392, 0, 0, 0, 0, 0, 0, 0, 0, 0, 0, 0, 0, 0, 0, 0, 0, 392, 392, 392, 392, 392,
-  392, 392, 392, 392, 392, 392, 392, 392, 392, 392, 392, 392, 392, 392, 392,
-  392, 392, 392, 392, 392, 392, 392, 392, 392, 392, 392, 392, 392, 392, 392,
-  392, 392, 392, 392, 392, 392, 392, 392, 392, 392, 392, 392, 392, 392, 392,
-  392, 392, 392, 0, 0, 0, 0, 0, 0, 0, 0, 0, 0, 0, 0, 0, 0, 0, 0, 0, 0, 0, 0, 0,
+  0, 0, 0, 0, 0, 392, 0, 0, 0, 0, 0, 0, 0, 0, 0, 0, 0, 0, 0, 0, 0, 0, 0, 392, 0,
   0, 0, 0, 0, 0, 0, 0, 0, 0, 0, 0, 0, 0, 0, 0, 0, 0, 0, 0, 0, 0, 0, 0, 0, 0, 0,
+  0, 0, 0, 0, 0, 0, 0, 0, 392, 0, 0, 0, 0, 0, 0, 0, 0, 0, 0, 0, 0, 0, 0, 0, 392,
+  0, 0, 0, 0, 0, 0, 0, 0, 0, 0, 0, 0, 0, 0, 0, 0, 0, 392, 0, 0, 0, 0, 0, 0, 0,
+  0, 0, 0, 0, 0, 0, 0, 0, 0, 0, 0, 0, 0, 0, 0, 0, 0, 0, 0, 0, 0, 0, 0, 0, 0, 0,
+  0, 0, 392, 0, 0, 0, 0, 0, 0, 0, 0, 0, 0, 0, 0, 0, 0, 0, 392, 0, 0, 0, 0, 0, 0,
+  0, 0, 0, 0, 0, 0, 0, 0, 0, 0, 0, 392, 392, 392, 392, 392, 392, 392, 392, 392,
+  392, 392, 392, 392, 392, 392, 392, 392, 392, 392, 392, 392, 392, 392, 392,
+  392, 392, 392, 392, 392, 392, 392, 392, 392, 392, 392, 392, 0, 0, 0, 0, 0, 0,
+  0, 0, 0, 0, 0, 0, 0, 0, 0, 0, 0, 392, 392, 392, 392, 392, 392, 392, 392, 392,
+  392, 392, 392, 392, 392, 392, 392, 392, 0, 0, 0, 0, 0, 0, 0, 0, 0, 0, 0, 0, 0,
   0, 0, 0, 0, 0, 0, 0, 0, 0, 0, 0, 0, 0, 0, 0, 0, 0, 0, 0, 0, 0, 0, 0, 0, 0, 0,
   0, 0, 0, 0, 0, 0, 0, 0, 0, 0, 0, 0, 0, 0, 0, 0, 0, 0, 0, 0, 0, 0, 0, 0, 0, 0,
   0, 0, 0, 0, 0, 0, 0, 0, 0, 0, 0, 0, 0, 0, 0, 0, 0, 0, 0, 0, 0, 0, 0, 0, 0, 0,

diff --git a/js/PortScene.js b/js/PortScene.js
@@ -10,7 +10,7 @@ const portWorldBg = new Sprite({
 });
 
 // port map speed
-const portSpeed = 6;
+const portSpeed = 7;
 
 // DRAW EXIT PORT BARRIER
 const exitPortMap = [];
@@ -24,6 +24,29 @@ exitPortMap.forEach((row, i) => {
   row.forEach((symbol, j) => {
     if (symbol === 393) {
       exitPortZones.push(
+        new Boundary({
+          position: {
+            x: j * Boundary.width + offset.x,
+            y: i * Boundary.height + offset.y,
+          },
+        })
+      );
+    }
+  });
+});
+
+// DRAW Enter WEB BARRIER
+const enterWebMap = [];
+for (let i = 0; i < enterWebData.length; i += 70) {
+  enterWebMap.push(enterWebData.slice(i, 70 + i));
+}
+
+const enterWebZones = [];
+
+enterWebMap.forEach((row, i) => {
+  row.forEach((symbol, j) => {
+    if (symbol === 393) {
+      enterWebZones.push(
         new Boundary({
           position: {
             x: j * Boundary.width + offset.x,
@@ -60,7 +83,12 @@ portCollisionMap.forEach((row, i) => {
 });
 
 //
-const portMovers = [portWorldBg, ...boundari, ...exitPortZones];
+const portMovers = [
+  portWorldBg,
+  ...boundari,
+  ...exitPortZones,
+  ...enterWebZones,
+];
 
 function animatePort() {
   const portAniID = window.requestAnimationFrame(animatePort);
@@ -78,6 +106,10 @@ function animatePort() {
   // DRAW exit ZONES
   exitPortZones.forEach((exitZone) => {
     exitZone.draw();
+  });
+  // DRAW ENTER WEB ZONES
+  enterWebZones.forEach((webZone) => {
+    webZone.draw();
   });
 
   let mova = true;
@@ -143,6 +175,72 @@ function animatePort() {
       }
     }
   }
+  let url;
+
+  const playerLocation = () => {
+    if (portWorldBg.position.x >= -300 && portWorldBg.position.y >= -650) {
+      url = 'https://tagpainting.com';
+    } else if (
+      portWorldBg.position.x >= -300 &&
+      portWorldBg.position.y <= -900
+    ) {
+      url = 'https://nxt-crypto.netlify.app/';
+    }
+  };
+
+  playerLocation();
+  // // WEB ZONE DETECTION
+  if (keys.w.pressed || keys.a.pressed || keys.s.pressed || keys.d.pressed) {
+    for (let i = 0; i < enterWebZones.length; i++) {
+      const webZone = enterWebZones[i];
+
+      const overlappingArea =
+        (Math.min(
+          player.position.x + player.width,
+          webZone.position.x + webZone.width
+        ) -
+          Math.max(player.position.x, webZone.position.x)) *
+        (Math.min(
+          player.position.y + player.height,
+          webZone.position.y + webZone.height
+        ) -
+          Math.max(player.position.y, webZone.position.y));
+
+      if (
+        rectCollision({
+          rect1: player,
+          rect2: webZone,
+        }) &&
+        overlappingArea > (player.width * player.height) / 4
+      ) {
+        // DEACTIVATE CURRENT ANIMATION LOOP
+        if (keys.w.pressed) {
+          gsap.to('#transition', {
+            opacity: 1,
+            repeat: 1,
+            yoyo: true,
+            duration: 0.2,
+            onComplete() {
+              gsap.to('#transition', {
+                opacity: 1,
+                duration: 0.4,
+                onComplete() {
+                  // ACTIVE NEW ANIMATION LOOP
+                  audio.House.stop();
+                  window.open(url, '_blank');
+                  gsap.to('#transition', {
+                    opacity: 0,
+                    duration: 0.4,
+                  });
+                },
+              });
+            },
+          });
+        }
+        break;
+      }
+    }
+  }
 
   // moving port with collision detection
 
@@ -158,7 +256,7 @@ function animatePort() {
             ...boundary,
             position: {
               x: boundary.position.x,
-              y: boundary.position.y + portSpeed,
+              y: boundary.position.y - player.height / 2 + portSpeed,
             },
           },
         })
@@ -182,7 +280,7 @@ function animatePort() {
             ...boundary,
             position: {
               x: boundary.position.x,
-              y: boundary.position.y - portSpeed,
+              y: boundary.position.y - player.height / 2 - portSpeed,
             },
           },
         })

diff --git a/index.html b/index.html
@@ -181,6 +181,7 @@
     <script src="./js/data/exitHouse.js"></script>
     <script src="./js/data/enterPort.js"></script>
     <script src="./js/data/exitPort.js"></script>
+    <script src="./js/data/enterWeb.js"></script>
     <script src="./js/data/attacks.js"></script>
     <script src="./js/data/monsters.js"></script>
     <script src="./js/classes.js"></script>
